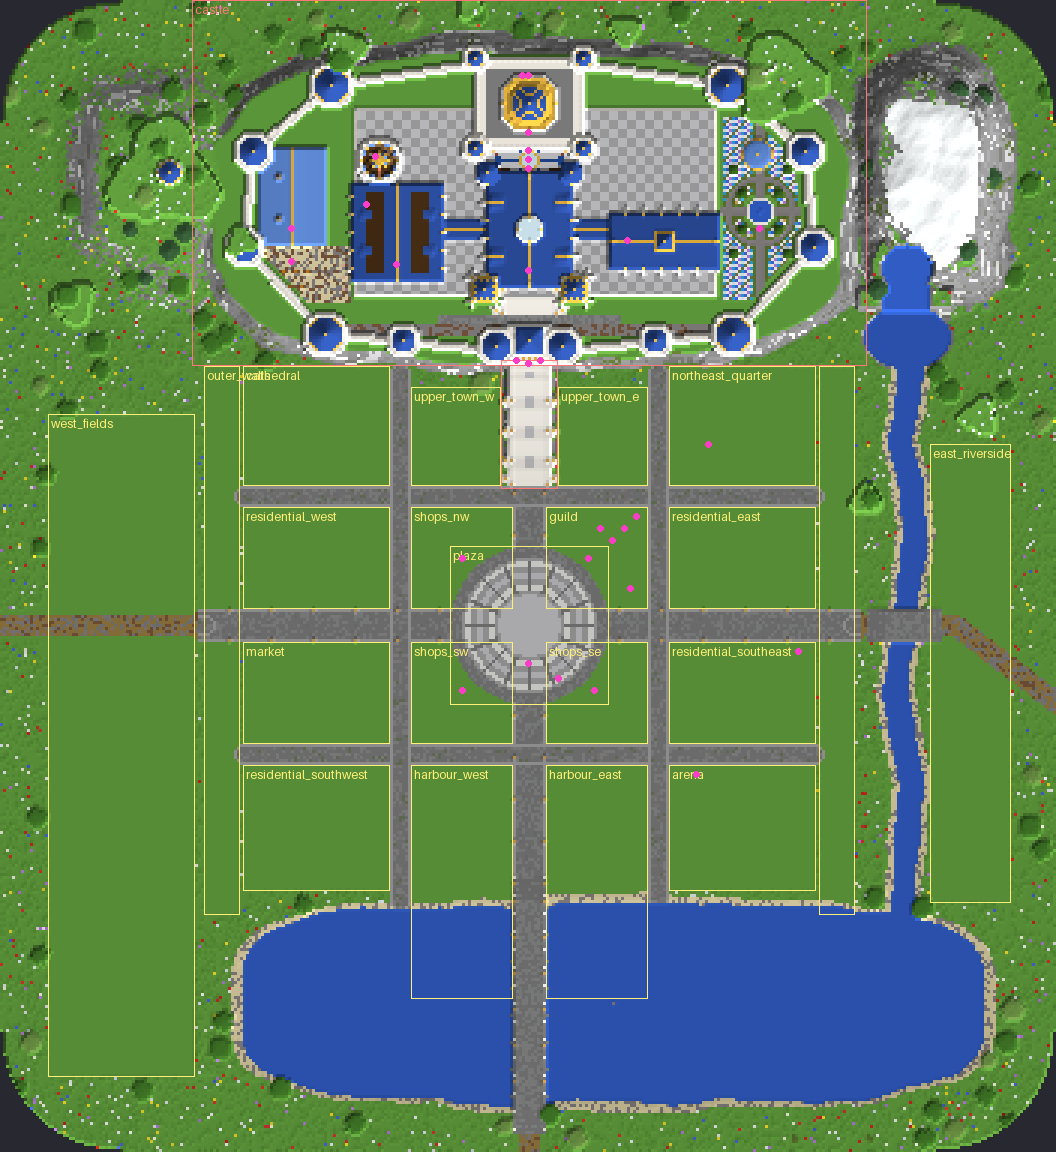
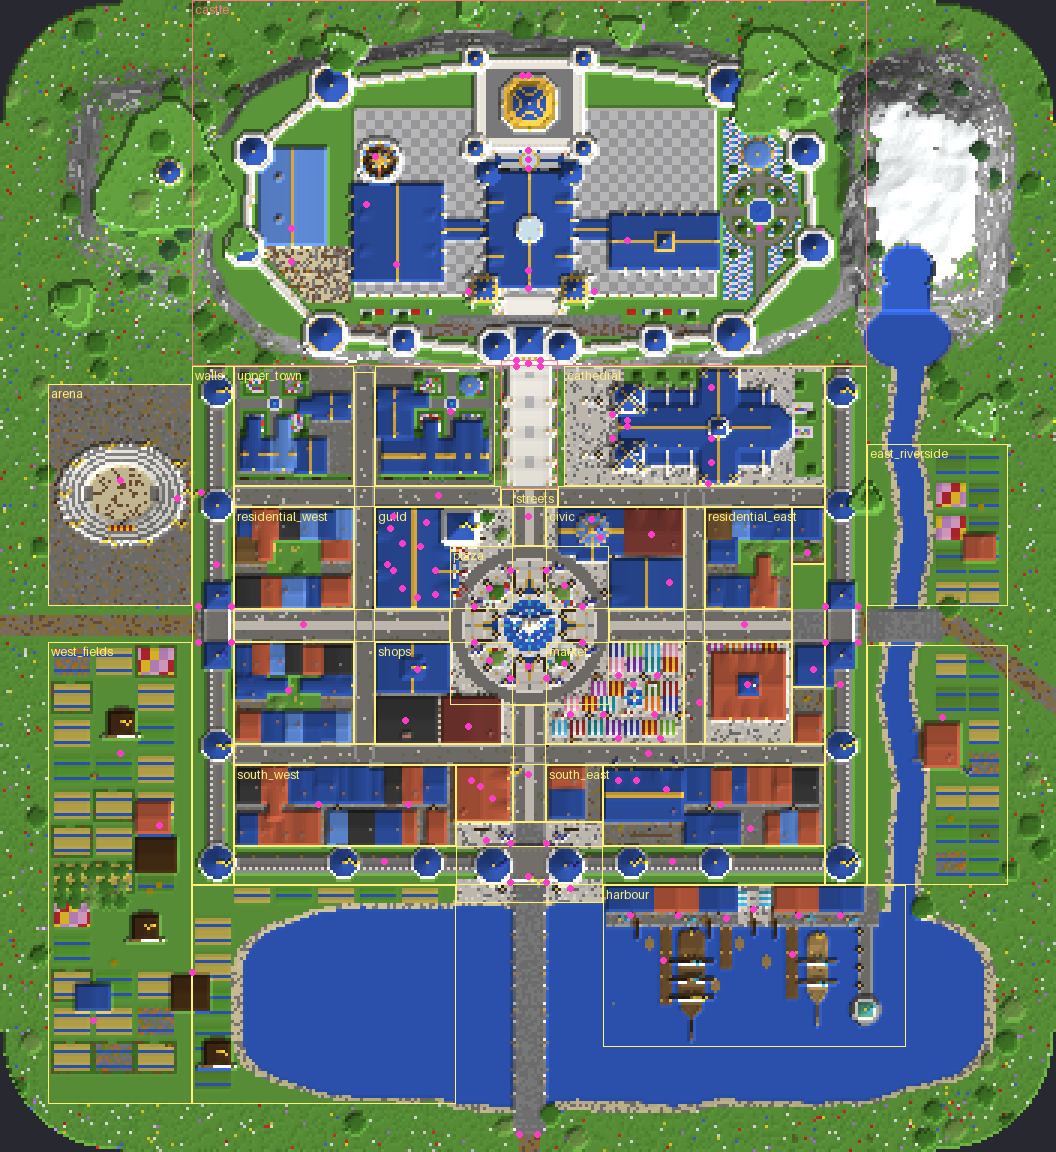
Capital town: hall of fame statue and pillars, camera fixes, curated previews
Previews: town_aerial(_e/_w), main_gate, guild_front, guild_hall, cathedral_se, cathedral_nave,
market_square, harbour; aerial_south, plaza_north and map_top re-rendered with the finished town.

Claude-Session: https://claude.ai/code/session_017h8AW8hdaQXmpSprvhaNJa

diff --git a/tools/capital/districts/civic.py b/tools/capital/districts/civic.py
@@ -144,6 +144,15 @@ def hall_of_fame(w):
     w.be(24, 3, -28, B.lectern_nbt("栄誉録", "Chloe", ["The deeds of Arseria's heroes are written here."]))
     w.set(18, 3, -28, B.candle(3, "white"))
     w.spot("npc.hall_of_fame", (24, 1, -29), 0.0)
+    # pillars framing the central space and a gilded hero statue under the dome's oculus
+    for (x, z) in ((17, -35), (25, -35), (17, -29), (25, -29)):
+        w.fill(x, 1, z, x, 8, z, B.pillar("y"))
+        w.set(x, 9, z, F(GOLD)) if False else None
+    w.fill(20, 1, -33, 22, 1, -31, F(SM))
+    S.statue_figure(w, 21, 2, -32, facing="south", material="quartz_block", wings=True, gold_crown=True,
+                    plinth="smooth_castle_stone")
+    for (x, z) in ((19, -33), (23, -33), (19, -31), (23, -31)):
+        w.set(x, 2, z, B.candle(3, "yellow")) if w.is_empty(x, 2, z) else None
     for (x, z) in ((15, -31), (27, -31)):
         deco.chandelier(w, x, 9, z, drop=3)
 

diff --git a/tools/capital/districts/guild.py b/tools/capital/districts/guild.py
@@ -43,7 +43,7 @@ GUILD_BANNER = B.banner_nbt([("cr", "yellow"), ("bo", "yellow"), ("mc", "red"), 
 VIEWS = {
     "guild_hall": dict(pos=(-29.5, 5.5, -13.5), look=(-46, 3, -28), fov=76, sun=(40, -110), fog=900,
                        label="Guild hall: long tables, quest counter and board, gallery"),
-    "guild_front": dict(pos=(-7, 7, 10), look=(-38, 14, -22), fov=70, sun=(38, -120), fog=2600,
+    "guild_front": dict(pos=(-6, 16, 12), look=(-36, 15, -22), fov=66, sun=(38, -120), fog=2600,
                         label="The adventurers' guild and its clock tower from the plaza"),
     "guild_rooms": dict(pos=(-30.5, 10.6, -24.5), look=(-47, 9, -29), fov=80, sun=(40, -110), fog=900,
                         label="Guild upper floor: gallery, office and infirmary doors"),

diff --git a/tools/capital/districts/_town_views.py b/tools/capital/districts/_town_views.py
@@ -69,7 +69,7 @@ def views():
                             label="West quarter from above"),
         "west_street": dict(pos=(-60, 3.6, 0), look=(-92, 7, -9), fov=70, sun=s(40, -150), fog=2600,
                             label="West avenue houses"),
-        "upper_town": dict(pos=(-30, 14, -36), look=(-70, 6, -76), fov=70, sun=s(40, -150), fog=2600,
+        "upper_town": dict(pos=(-28, 9, -44), look=(-60, 6, -72), fov=70, sun=s(40, -150), fog=2600,
                            label="Upper town at the foot of the castle cliff"),
         "south_quarter": dict(pos=(-6, 4, 46), look=(-60, 6, 64), fov=70, sun=s(40, -150), fog=2600,
                               label="South-west quarter"),

diff --git a/tools/capital/districts/cathedral.py b/tools/capital/districts/cathedral.py
@@ -44,7 +44,7 @@ VIEWS = {
                            label="Cathedral nave towards the altar (afternoon light through the west rose)"),
     "cathedral_west": dict(pos=(13, 6, -58), look=(34, 28, -66), fov=78, sun=(40, -150), fog=2600,
                            label="The cathedral's west front"),
-    "cathedral_se": dict(pos=(92, 14, -32), look=(60, 24, -66), fov=70, sun=(40, -150), fog=2600,
+    "cathedral_se": dict(pos=(90, 27, -21), look=(60, 20, -66), fov=70, sun=(40, -150), fog=2600,
                          label="The cathedral from the south-east: transept rose, buttresses, apse"),
 }
 
